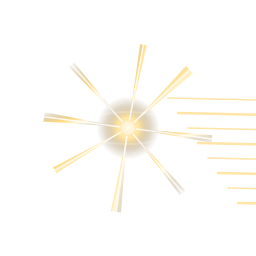
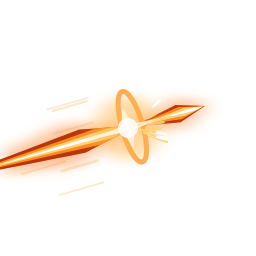
release 2a07167

diff --git a/README.md b/README.md
@@ -1,5 +1,5 @@
 # Party Delight (protótipo jogável)
 
-Versão buildada do protótipo (a71ee73). Jogue em https://vitorthedev.github.io/party-delight-play/
+Versão buildada do protótipo (2a07167). Jogue em https://vitorthedev.github.io/party-delight-play/
 
 Feito com Phaser (MIT), Vue (MIT) e Immer (MIT); licenças em [licenses/](./licenses/).
